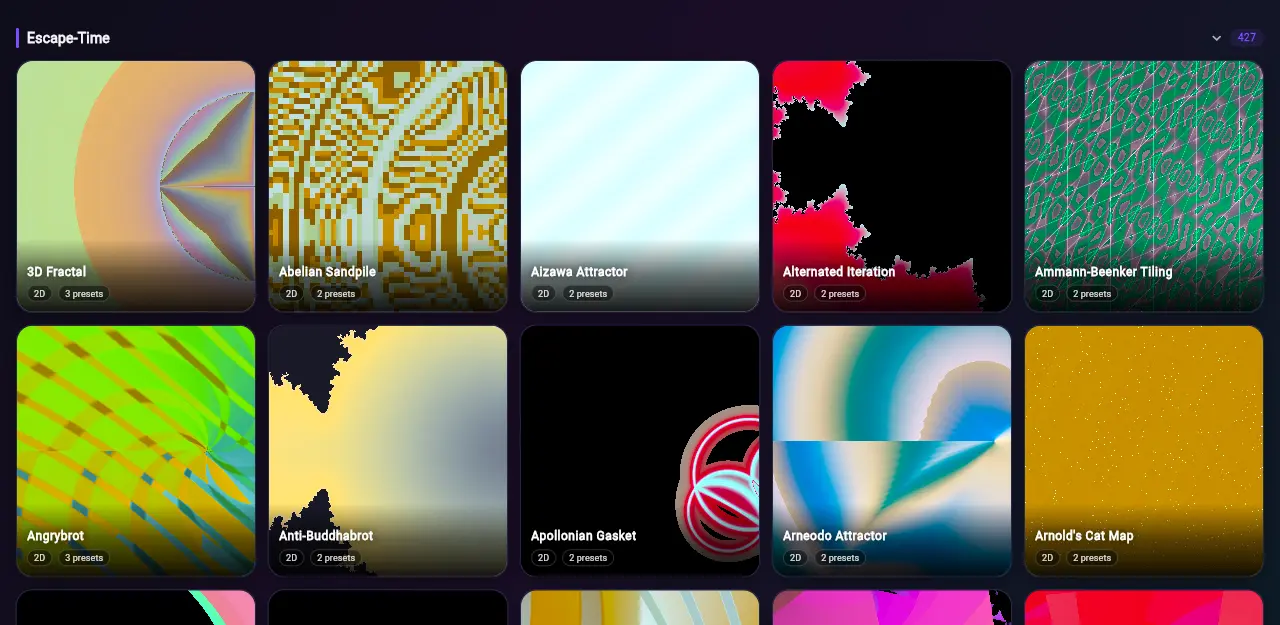
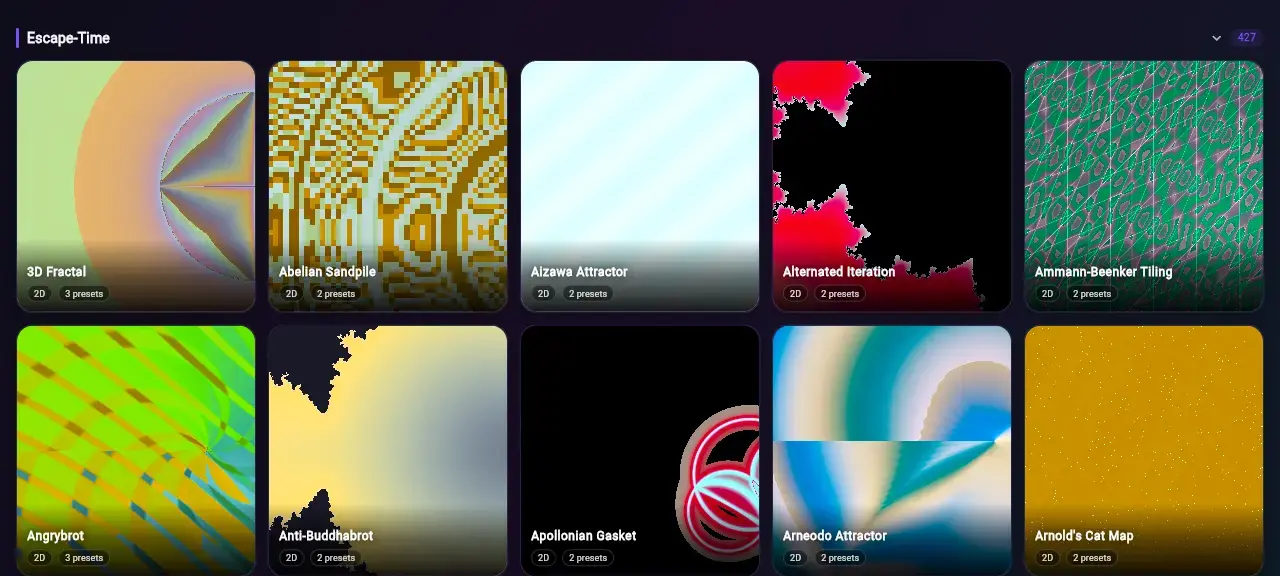
release: prepare Fractal Forge 1.1.98

diff --git a/README.md b/README.md
@@ -24,17 +24,23 @@ Fractal Forge is an open-source Flutter explorer for mathematical systems and ge
 ## See what it renders
 
 <p align="center">
-  <a href="https://fractal.trebuchetdynamics.com"><img src="assets/readme/catalog-grid.webp" width="100%" alt="A grid of colorful Fractal Forge catalog renders from several mathematical families"></a>
+  <a href="https://fractal.trebuchetdynamics.com"><img src="assets/readme/catalog-grid.webp" width="100%" alt="Two complete rows of colorful Fractal Forge catalog renders from several mathematical families"></a>
 </p>
 
-> The static gallery is representative project output, not a claim of full web/app parity. Export, sharing, CPU precision, and hardware GPU behavior are most complete in the installable app; see the [renderer backend matrix](docs/engineering/rendering/renderer_backend_matrix.md).
+<p align="center">
+  <a href="https://fractal.trebuchetdynamics.com"><img src="assets/readme/viewer-controls.webp" width="100%" alt="Fractal Forge Mandelbulb viewer with the rendered form centered above its controls"></a>
+</p>
+
+> These static browser captures show the catalog and viewer, not full web/app parity. Export, sharing, CPU precision, and hardware GPU behavior are most complete in the installable app; see the [renderer backend matrix](docs/engineering/rendering/renderer_backend_matrix.md).
 
 ## What makes it useful
 
-- **Explore a broad mathematical catalog** — 1014 production fractals spanning escape-time formulas, root-finding basins, attractors, IFS, cellular systems, tilings, and ray-marched 3D forms.
+- **Explore a broad mathematical catalog** — move across escape-time formulas, root-finding basins, attractors, IFS, cellular systems, tilings, and ray-marched 3D forms.
 - **Tune and render interactively** — GPU-first controls cover pan, zoom, presets, animation, 64 color schemes, and formula-specific parameters, with deeper preview and CPU paths where supported.
-- **Keep and extend the work** — export, share, set wallpapers, or experiment with dual Mandelbrot/Julia views, Fractal Music, and live Fourier analysis.
+- **Keep the views worth keeping** — export images, share results, or set a render as wallpaper.
 - **Use it on your terms** — [no ads, tracking, account requirement, or data collection](https://fractal.trebuchetdynamics.com/privacy-policy), with high contrast, reduced motion, screen-reader labels, and configurable touch targets.
+
+Beyond the core workflow, experimental tools include dual Mandelbrot/Julia views, Fractal Music, and live Fourier analysis.
 
 ## Explore the catalog
 
@@ -89,7 +95,7 @@ Install **[Fractal Forge from Google Play](https://play.google.com/store/apps/de
 
 - Flutter SDK 3.x ([installation guide](https://docs.flutter.dev/get-started/install))
 - Dart 3.x, included with Flutter
-- A GPU or emulator with shader support; OpenGL ES 3.0+ is recommended
+- A GPU or emulator with shader support: WebGL 2.0 for browsers, or compatible GPU drivers for installable targets
 
 ```bash
 git clone https://github.com/TrebuchetDynamics/flutter-fractal-forge.git
@@ -140,21 +146,9 @@ main.dart
               └─ export + wallpaper + share + Fractal Music
 ```
 
-```text
-lib/
-├── app/              app composition and startup
-├── core/             models, controllers, modules, services, theme
-├── features/         catalog, viewer, renderer, controls, export, looper
-├── l10n/             generated localization output
-├── shared/           cross-feature widgets and utilities
-└── main.dart         entry point and compatibility facade
-
-shaders/              Flutter GLSL fragment shaders
-integration_test/     device and GPU rendering flows
-test/                 unit, widget, contract, and golden tests
-```
-
 `ModuleRegistry` assembles the catalog from declarative configs, shared catalogs, custom builders, and debug-only diagnostics. Every viewer feature consumes the selected module and the same controller state.
+
+For the directory structure, release builds, and shader contribution workflow, see the [`CONTRIBUTING.md`](CONTRIBUTING.md) guide.
 
 ## Testing
 

diff --git a/CHANGELOG.md b/CHANGELOG.md
@@ -23,6 +23,21 @@ and this project adheres to [Semantic Versioning](https://semver.org/spec/v2.0.0
 - Bundled FFmpeg and the Camera Looper MP4-with-music export. GIF export remains,
   avoiding FFmpeg's large native footprint and simplifying F-Droid review.
 
+## [1.1.98] - 2026-08-28
+
+### Added
+
+- A redesigned cross-platform launcher icon and refreshed generated platform assets.
+- Static catalog and viewer proof in the project README, with clearer platform,
+  privacy, architecture, and contributor guidance.
+
+### Fixed
+
+- Distinct canonical registry hashes for the five shared-shader recursive objects,
+  restoring the strict catalog deduplication invariant.
+- Release ABI filtering and Play listing icon verification now match the current
+  Android build pipeline and redesigned launcher icon.
+
 ## [1.1.93] - 2026-08-26
 
 ### Added
